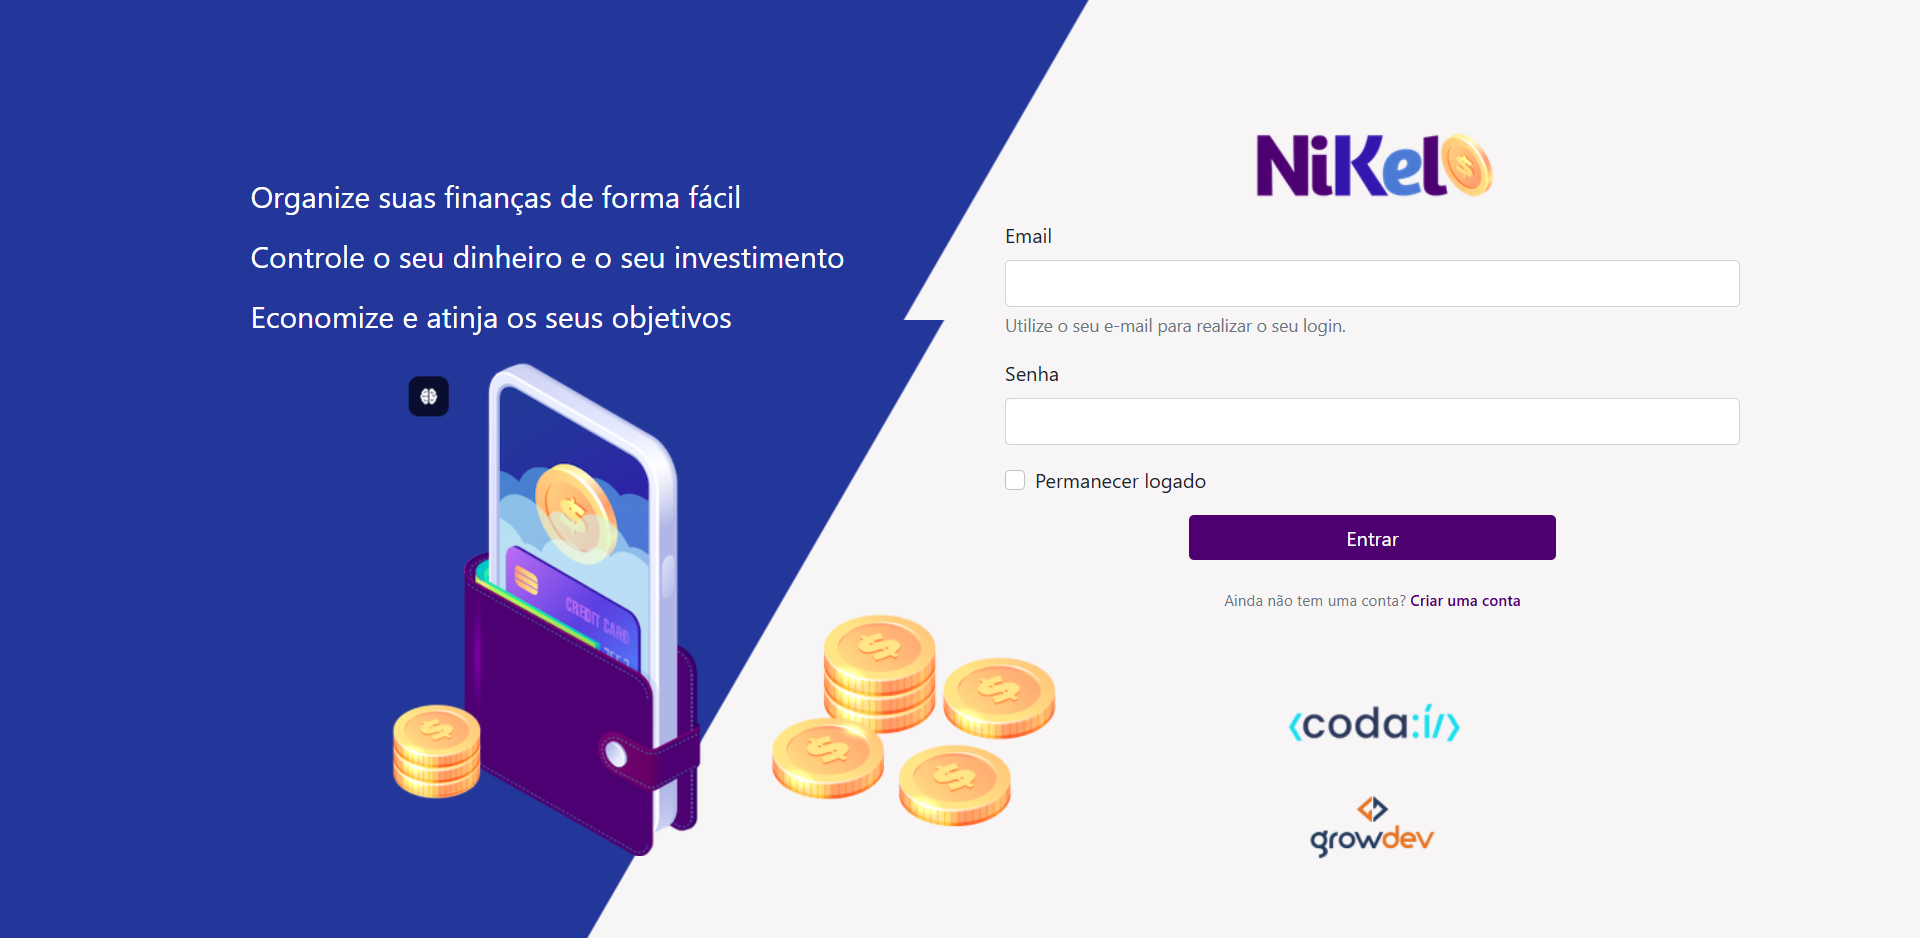
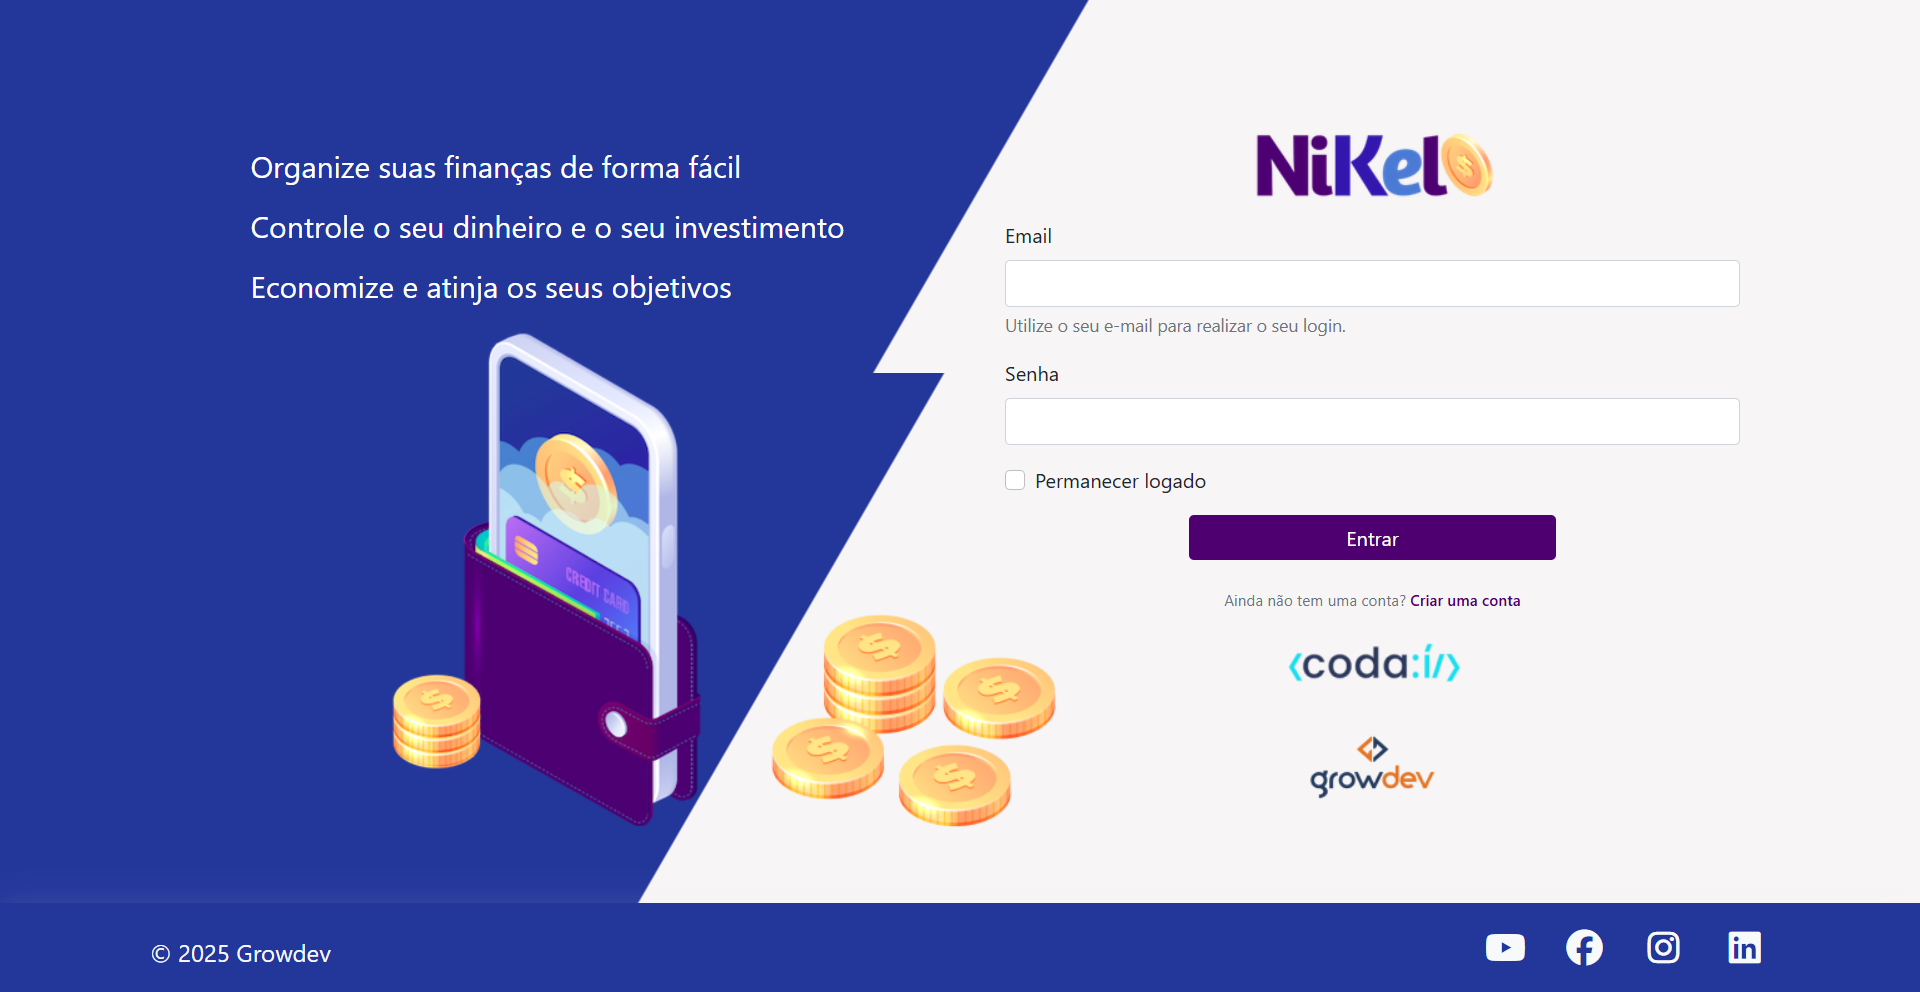
feat: Atualizado imagem tela de login :tada:

diff --git a/README.md b/README.md
@@ -48,7 +48,7 @@ Aplicativo web **Nikel** para controle financeiro pessoal, permitindo visualizar
 ## Estrutura do Projeto
 
 - `index.html`: Tela de login e cadastro.  
-  ![Tela de login](public/assets/images/tela-login02.jpg)
+  ![Tela de login](public/assets/images/tela-login01.png)
   ![Tela de cadastro](public/assets/images/tela-cadastro.png)
 
 - `home.html`: Tela principal, resumo do saldo, entradas, saídas.
